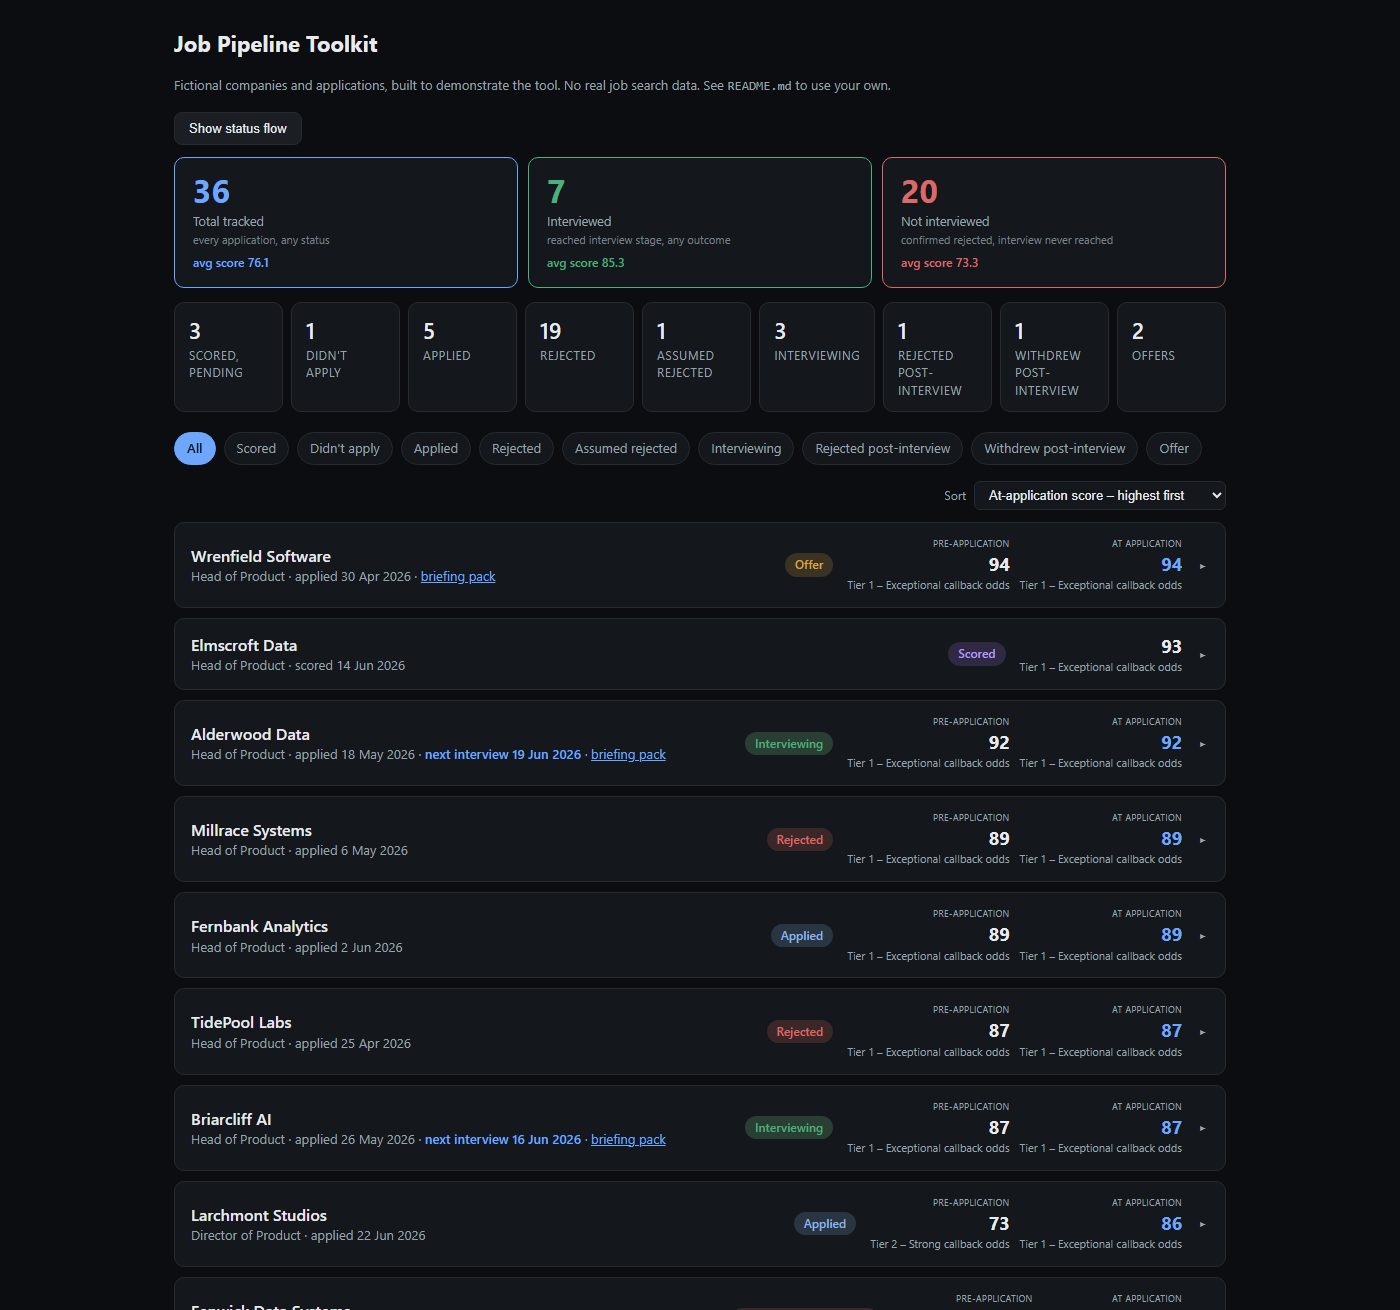
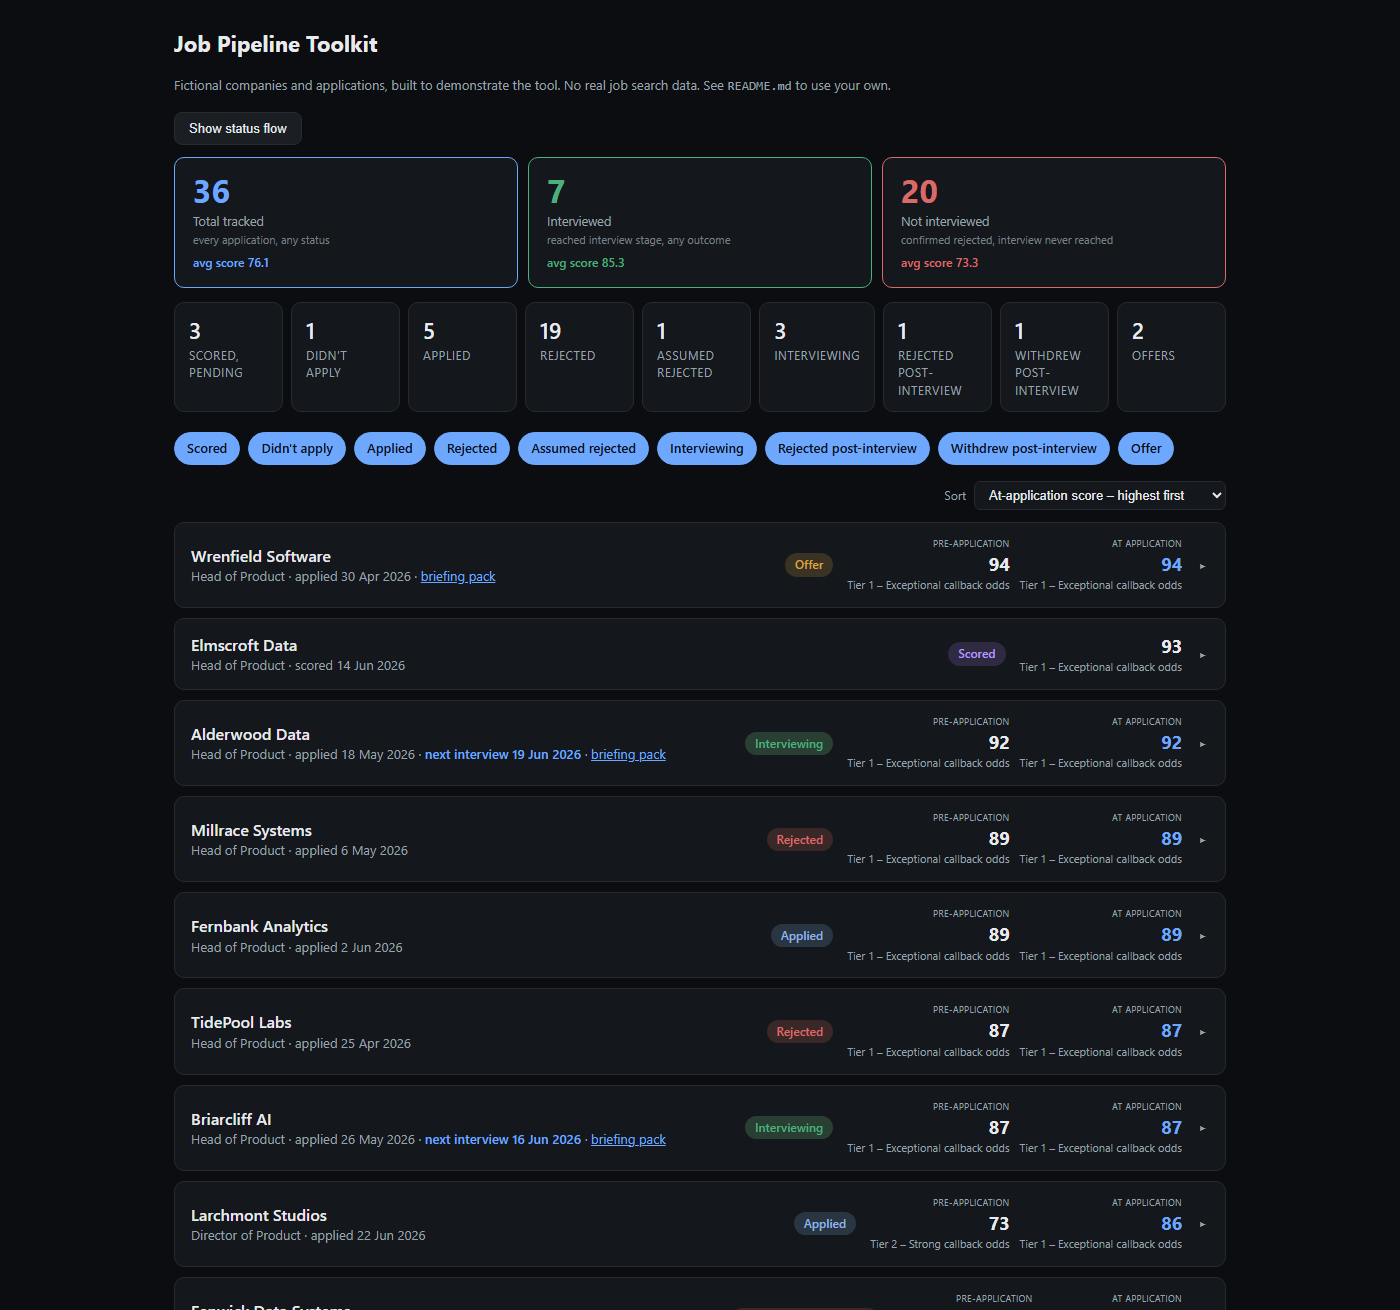
Fix status filters: independent toggle per pill, not single-select
Regression against the legacy Application Pipeline tracker's own filter
behaviour, spotted after this repo's dashboard had already diverged from
it. Clicking a status pill replaced the whole filter (single-select,
radio-button behaviour) instead of toggling that one status on/off
independently, so it was impossible to view e.g. "Applied + Interviewing"
together without also seeing everything else.

Replaced the single currentFilter string with an activeFilters Set,
defaulting to every status active (all shown). Dropped the separate "All"
pill rather than keeping it: with independent per-status toggles, "All"
would be ambiguous the moment any individual pill had been turned off
(reset everything, or become just another status to combine?) - the
legacy tracker itself had no such pill either, toggling every status back
on already gets you the same result.

Changed region(s): [[0.1229, 0.3053, 0.86, 0.3664]]

diff --git a/docs/index.html b/docs/index.html
@@ -2455,14 +2455,21 @@ function renderStats() {
   ).join("");
 }
 
-let currentFilter = "all";
+// Every status starts active (shown) - this is what "seeing everything" means
+// in a toggle-per-status model, so there's no separate "All" pill: toggling
+// every pill back on already gets you there, and having both would leave it
+// ambiguous what clicking "All" does to pills you'd individually turned off.
+let activeFilters = new Set(STATUS_ORDER);
 
 function renderFilters() {
-  const filters = ["all", ...STATUS_ORDER];
-  document.getElementById("filters").innerHTML = filters.map(f =>
-    `<div class="pill ${f === currentFilter ? "active" : ""}" data-filter="${f}">${f === "all" ? "All" : esc(statusLabel(f))}</div>`
+  document.getElementById("filters").innerHTML = STATUS_ORDER.map(f =>
+    `<div class="pill ${activeFilters.has(f) ? "active" : ""}" data-filter="${f}">${esc(statusLabel(f))}</div>`
   ).join("");
-  document.querySelectorAll(".pill").forEach(p => p.onclick = () => { currentFilter = p.dataset.filter; render(); });
+  document.querySelectorAll(".pill").forEach(p => p.onclick = () => {
+    const f = p.dataset.filter;
+    if (activeFilters.has(f)) activeFilters.delete(f); else activeFilters.add(f);
+    render();
+  });
 }
 
 function esc(s) {
@@ -2714,7 +2721,7 @@ function render() {
   renderStats();
   renderFilters();
   const data = (Array.isArray(APPLICATIONS) ? APPLICATIONS : []).filter(Boolean);
-  const filtered = currentFilter === "all" ? data : data.filter(a => a.status === currentFilter);
+  const filtered = data.filter(a => activeFilters.has(a.status));
   const sorted = currentSort === "score" ? sortByScore(filtered)
     : currentSort === "at_application" ? sortByAtApplication(filtered)
     : currentSort === "recent" ? sortByRecent(filtered)